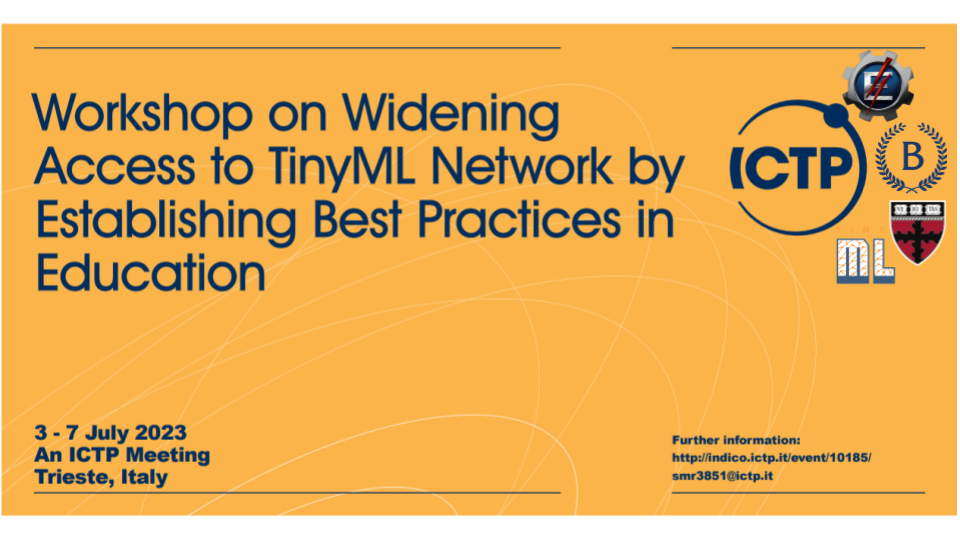
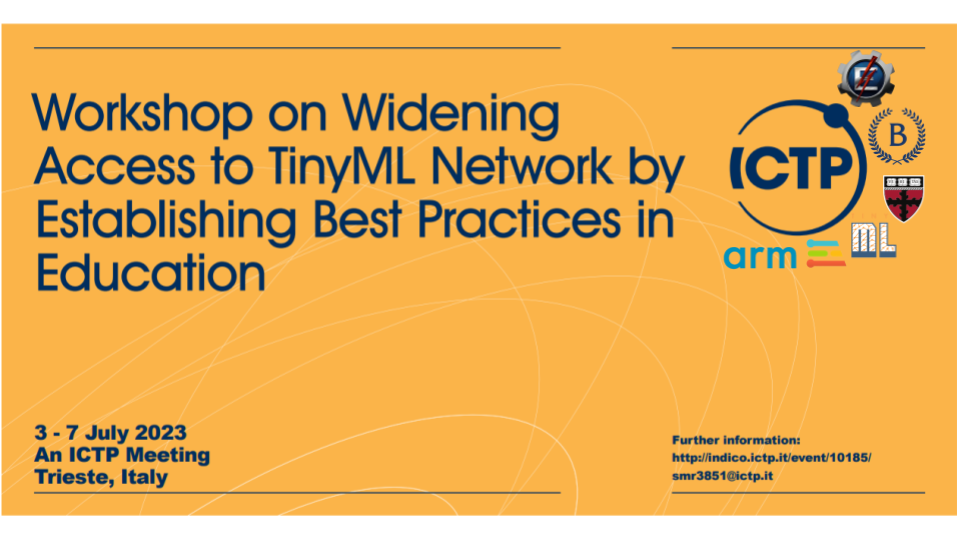
updating lgoos

Changed region(s): [[0.75, 0.0889, 1.0, 0.5333]]

diff --git a/_includes/header.md b/_includes/header.md
@@ -4,17 +4,24 @@ Edge ML University Program 2023:
 Workshop on Widening Access to TinyML Network by Establishing Best Practices in Education
 
 <a style="text-decoration:none" href="https://www.ictp.it/">
-  <img src="{{ '/assets/ictp.svg' | relative_url }}" alt="ICTP" style="height: 2.8rem">
+  <img src="{{ '/assets/ictp.svg' | relative_url }}" alt="ICTP" style="height: 3rem">
 </a>
 <a style="text-decoration:none" href="https://www.seas.harvard.edu/">
-  <img src="{{ '/assets/seas.svg' | relative_url }}" alt="Harvard SEAS" style="height: 2.8rem">
+  <img src="{{ '/assets/seas.svg' | relative_url }}" alt="Harvard SEAS" style="height: 3rem">
 </a>
 <a style="text-decoration:none" href="https://cs.barnard.edu">
-  <img src="{{ '/assets/barnard.png' | relative_url }}" alt="Barnard College" style="height: 2.8rem">
+  <img src="{{ '/assets/barnard.png' | relative_url }}" alt="Barnard College" style="height: 3rem">
 </a>
 <a style="text-decoration:none" href="https://unifei.edu.br/">
-  <img src="{{ '/assets/unifei.png' | relative_url }}" alt="Universidade Federal de Itajubá" style="height: 2.8rem">
+  <img src="{{ '/assets/unifei.png' | relative_url }}" alt="Universidade Federal de Itajubá" style="height: 3rem">
+</a>
+<br/>
+<a style="text-decoration:none" href="https://www.edgeimpulse.com/">
+  <img src="{{ '/assets/edgeimpulse.png' | relative_url }}" alt="Edge Impulse" style="height: 2.0rem">
+</a>
+<a style="text-decoration:none" href="https://www.arm.com/">
+  <img src="{{ '/assets/arm.png' | relative_url }}" alt="Arm" style="height: 1.8rem">
 </a>
 <a style="text-decoration:none" href="https://www.tinyml.org/">
-  <img src="{{ '/assets/tinyML.svg' | relative_url }}" alt="TinyML Foundation" style="height: 2.8rem">
+  <img src="{{ '/assets/tinyML.svg' | relative_url }}" alt="TinyML Foundation" style="height: 3rem">
 </a>

diff --git a/index.md b/index.md
@@ -29,4 +29,4 @@ We will do so by first bridging the gap between leveraging standard open-access 
 Contact [edu@tinyml.org](mailto:edu@tinyml.org) with any questions regarding this workshop.
 
 ### Supporters
-We would like to thank [**ICTP**](https://www.ictp.it/), [**Harvard SEAS**](https://www.seas.harvard.edu/), [**Barnard College**](https://cs.barnard.edu/), the [**Universidade Federal de Itajubá**](https://unifei.edu.br/), and the [**tinyML Foundation**](https://www.tinyml.org/) for their continued leadership and support of all of our TinyML educational content!
+We would like to thank [**ICTP**](https://www.ictp.it/), [**Harvard SEAS**](https://www.seas.harvard.edu/), [**Barnard College**](https://cs.barnard.edu/), the [**Universidade Federal de Itajubá**](https://unifei.edu.br/), [**Edge Impulse**](https://www.edgeimpulse.com/), [**Arm**](https://www.arm.com/), and the [**tinyML Foundation**](https://www.tinyml.org/) for their continued leadership and support of our TinyML educational content!
